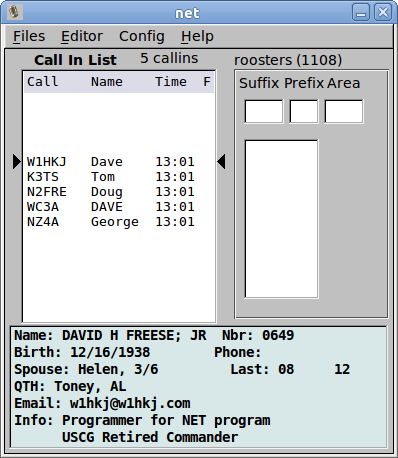
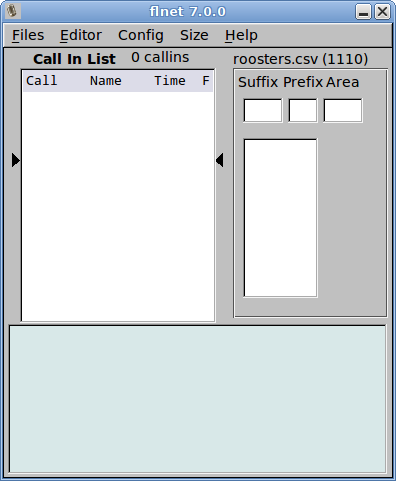
Help file update
* Changed help files to reflect change from xbase to
    comma separated file database

diff --git a/Net-help/MainDialog.html b/Net-help/MainDialog.html
@@ -3,6 +3,8 @@
 
 
 
+
+
 	
   <meta http-equiv="CONTENT-TYPE" content="text/html; charset=windows-1252"><title></title>
 
@@ -28,7 +30,7 @@
 		A:link { color: #000099 }
 		A:visited { color: #990099 }
 	-->
-	</style></head><body dir="ltr" bgcolor="#ffffcc" lang="en-US" link="#000099" text="#000000" vlink="#990099">
+	</style></head><body dir="ltr" lang="en-US">
 
 <h1 align="center">Main Dialog</h1>
 
@@ -37,56 +39,26 @@
 <h4>Windows:</h4>
 
 <p style="margin-left: 0.42in; margin-bottom: 0in;" align="justify">Invoke
-NET by either clicking on the program within the windows explorer, or
-bringing up a DOS window and changing to the directory containing the
-net5.exe program. &nbsp;If within a DOS window the operator may
-either enter "net5" or "net5 fname", where fname
-is the name of the filename which either contains or will contain the
-net callsign database. &nbsp;A new file will be created if it does
-not exist at the time the program is started. &nbsp;You will be given a
-choice of a two database types. &nbsp;The database sets differ in the
-number and types of fields that will be stored.</p>
-<p style="margin-left: 0.42in; margin-bottom: 0in;" align="justify">Normal: PREFIX, AREA, SUFFIX, NAME, NETNBR, LOGDATA, FNAME, LNAME ADDRESS, CITY, STATE, ZIP, PHONE, BIRTHDATE, SPOUSE, SP_BIRTH</p>
-<p style="margin-left: 0.42in; margin-bottom: 0in;" align="justify">Extended: adds the following fields:</p>
-<p style="margin-left: 0.42in; margin-bottom: 0in;" align="justify">&nbsp;&nbsp;NBRLOGINS,&nbsp;STATUS,&nbsp;JOINED,&nbsp;COMMENT1 ,&nbsp;COMMENT2,&nbsp;&nbsp;EMAIL,&nbsp;PREVDATE<br>
+flnet by clicking on the desktop program icon.&nbsp; The main dialog and a file selection dialog will open:</p>
+<p style="margin-left: 0.42in; margin-bottom: 0in;" align="justify"><br>
+</p>
+<table style="text-align: left; width: 100px;" border="0" cellpadding="2" cellspacing="2">
+  <tbody>
+    <tr>
+      <td style="vertical-align: top;"><img style="width: 396px; height: 481px;" alt="" src="flnet.png"></td>
+      <td style="vertical-align: top;"><img style="width: 496px; height: 406px;" alt="" src="Select_csvfile.png"><br>
+      </td>
+    </tr>
+  </tbody>
+</table>
 <br>
-&nbsp;If you start with the normal sized database and decide at a later
-date to move the to the extended you can use the executable file
-"orig2ext" to perform the conversion.</p>
-<p style="margin-left: 0.42in; margin-bottom: 0in;" align="justify">If started from
-the explorer window or by simply entering "net5" at the DOS
-prompt, the program will start with a "file open" dialog
-for you to choose the database file to open. &nbsp;You may also enter
-the name of a new file and it will then be created as above.<br>
+<p>Either select an existing file or enter a new filename with the csv extension.&nbsp; All
+database files have the extension "csv" which may
+optionally be added to the filename.<br>
 <br>
-All
-database files have the extension ".dbf" which may
-optionally be added to the filename. &nbsp;Either way, the program
-will always open or create a file with that extensiion. &nbsp;These
-are xbase files which are compatible with the old DOS dbase-IV file
-definition.</p>
-
-
-<h4>Linux:</h4>
-
-<p style="margin-left: 0.42in; margin-bottom: 0in;">Operations is
-identical to Windows, except the user will select the file to execute
-using either a terminal command line program or a gui browser
-associated with the windowing system being employed. &nbsp;Under
-Linux it is easy to place a shortcut on the desktop and associate
-that with the database to be opened. &nbsp;</p>
-
-<p><br>
-<br>
-
 </p>
 
-<h4>Main Window Layout:</h4>
-
-<p style="margin-bottom: 0in;" align="center"><img style="border: 0px solid ; width: 398px; height: 458px;" alt="" src="net.png" name="Graphic1"></p>
-
-<p align="justify"><br>
-The main window is divided into three sections.
+<h4>Main Window Layout:</h4>The main window is divided into three sections.
 &nbsp;The Call In List to the left contains all of the net members
 callsigns, nicknames and time of login, who have been entered for
 this session. &nbsp;The data in this window can be scrolled using the
@@ -97,7 +69,7 @@ control operator. &nbsp;It is significant for another reason. &nbsp;The
 function keys F1, F2, F3 and F4 when pressed with change the color of
 that entry to BLACK, BLUE, GREEN or RED respectively. &nbsp;The color
 coding can be used by the net control operator in any way that he or
-she chooses. &nbsp;One use might choose to designate</p>
+she chooses. &nbsp;One use might choose to designate
 
 <p align="justify">&nbsp;&nbsp;&nbsp;&nbsp;&nbsp;&nbsp;&nbsp;&nbsp;&nbsp;&nbsp;&nbsp;
 Logged in to the net&nbsp;&nbsp;&nbsp;&nbsp;&nbsp;&nbsp;&nbsp; BLACK</p>

diff --git a/Net-help/FileFormat.html b/Net-help/FileFormat.html
@@ -1,0 +1,69 @@
+<!DOCTYPE HTML PUBLIC "-//W3C//DTD HTML 4.0 Transitional//EN">
+<html dir="ltr"><head>
+
+
+  <meta http-equiv="Content-Type" content="text/html; charset=windows-1252">
+  <meta name="AUTHOR" content="Dave Freese"><title>Datafile Format</title>
+  
+  <style>
+	<!--
+		@page { size: 8.5in 11in }
+		TD P { color: #000000 }
+		P { color: #000000 }
+		H2 { color: #000000 }
+		H3 { color: #000000 }
+		A:link { color: #000099 }
+		A:visited { color: #990099 }
+	-->
+	</style></head><body>
+<h2 align="center">Datafile Format<br>
+</h2>flnet 7 data files are ASCII text files.&nbsp; The file format is
+comma separated value (csv) which is the text file format used by most
+modern spread sheet programs.<br>
+<br>
+The first line in the file is a header line consisting of the following comma separated strings:<br>
+<p style="margin-left: 40px;">PREFIX<br>
+AREA<br>
+SUFFIX<br>
+CALLSIGN<br>
+NAME<br>
+NETNBR<br>
+LOGDATE<br>
+NBRLOGINS<br>
+STATUS<br>
+JOINED<br>
+FNAME<br>
+LNAME<br>
+ADDR<br>
+CITY<br>
+STATE<br>
+ZIP<br>
+PHONE<br>
+BIRTHDATE<br>
+SPOUSE<br>
+SP_BIRTH<br>
+COMMENT1<br>
+COMMENT2<br>
+EMAIL<br>
+PREVDATE</p>
+Three fields must be present for flnet to consider the file to contain valid data: PREFIX, AREA and SUFFIX.<br>
+<br>
+The fields can be in any order and flnet will correctly parse the
+data.&nbsp; Record fields must of course be aligned with the respective
+header name.&nbsp; For example a file containing records consisting of<br>
+<br>
+<div style="margin-left: 40px;">ZIP, NAME, SUFFIX, PREFIX, AREA<br>
+</div>
+<br>
+will be properly parsed.&nbsp; When the data is saved by flnet the
+missing fields will be added (empty if not edited by the user), and the
+fields realigned in the default order.<br>
+<br>
+You can open an flnet csv file using Excel, Open Office, Gnumeric,
+etc.&nbsp; If you modify the file just be sure to save it again in the
+csv format.<br>
+<br>
+<div style="text-align: left;"> 
+ </div>
+<p style="margin-bottom: 0in;" align="center"><a href="index.html"><font size="4">Contents</font></a></p>
+</body></html>

diff --git a/Net-help/Import.html b/Net-help/Import.html
@@ -1,0 +1,37 @@
+<!DOCTYPE HTML PUBLIC "-//W3C//DTD HTML 4.0 Transitional//EN">
+<html dir="ltr"><head>
+
+
+
+  <meta http-equiv="Content-Type" content="text/html; charset=windows-1252">
+  <meta name="AUTHOR" content="Dave Freese"><title>Import Database</title>
+  
+  <style>
+	<!--
+		@page { size: 8.5in 11in }
+		TD P { color: #000000 }
+		P { color: #000000 }
+		H2 { color: #000000 }
+		H3 { color: #000000 }
+		A:link { color: #000099 }
+		A:visited { color: #990099 }
+	-->
+	</style></head><body>
+<h2 align="center">Importing data from pre flnet 7.x<br>
+</h2>The database file format used in earlier versions of flnet were
+based on Xbase, which is similar to dbase.&nbsp; These files must be
+converted to the csv flat file format before using the exported file in
+flnet 7.x.<br>
+<br>
+Execute the earlier version of flnet.&nbsp; Open the desired dbf file
+and then open the Editor dialog and press the "Export" menu button:<br>
+<br>
+<img style="width: 457px; height: 178px;" alt="" src="export.png"><br>
+<br>
+The file will be saved in the same location as the original dbf file,
+using the same filename but with the extension csv.&nbsp; flnet 7.x
+will be able to open and use this file.<br>
+<div style="text-align: left;"> 
+ </div>
+<p style="margin-bottom: 0in;" align="center"><a href="index.html"><font size="4">Contents</font></a></p>
+</body></html>

diff --git a/Net-help/Function_Keys.html b/Net-help/Function_Keys.html
@@ -1,9 +1,10 @@
 <!DOCTYPE HTML PUBLIC "-//W3C//DTD HTML 4.0 Transitional//EN">
-<html>
-<head>
+<html><head>
+
+
   <meta http-equiv="Content-Type" content="text/html; charset=windows-1252">
-  <meta name="AUTHOR" content="Dave Freese">
-  <title>Function Keys</title>
+  <meta name="AUTHOR" content="Dave Freese"><title>Function Keys</title>
+  
   <style>
 	<!--
 		@page { size: 8.5in 11in }
@@ -14,10 +15,7 @@
 		A:link { color: #000099 }
 		A:visited { color: #990099 }
 	-->
-	</style>
-</head>
-<body lang="en-US" text="#000000" link="#000099" vlink="#990099"
- bgcolor="#FFFFCC" dir="ltr">
+	</style></head><body dir="ltr" lang="en-US">
 <h2 align="center">Keyboard Assignment</h2>
 <h3 align="center">Main Dialog</h3>
 <p align="left">F1&nbsp;&nbsp;&nbsp;&nbsp;&nbsp;&nbsp;&nbsp; Set Color to BLACK
@@ -45,6 +43,5 @@ the call-in list</p>
 current call as database selection</p>
       <div style="text-align: left;"> 
  </div>
-<p align="center" style="margin-bottom: 0in;"><a href="index.html"><font size="4">Contents</font></a></p>
-</body>
-</html>
+<p style="margin-bottom: 0in;" align="center"><a href="index.html"><font size="4">Contents</font></a></p>
+</body></html>

diff --git a/Net-help/index.html b/Net-help/index.html
@@ -3,6 +3,9 @@
 
 
 
+
+
+
 	
   <meta http-equiv="CONTENT-TYPE" content="text/html; charset=windows-1252"><title>MainDialog</title>
 
@@ -29,9 +32,9 @@
 		A:link { color: #000099 }
 		A:visited { color: #990099 }
 	-->
-	</style></head><body dir="ltr" bgcolor="#ffffcc" lang="en-US" link="#000099" text="#000000" vlink="#990099">
+	</style></head><body dir="ltr" lang="en-US">
 
-<h1 align="center">Net 6.0<br>
+<h1 align="center">Net 7.0<br>
 </h1>
 
 <p align="left">Net provides the Amateur Radio Net Control Station
@@ -54,6 +57,11 @@ Dialog</a><br>
 <br>
  <a href="Function_Keys.html">Function Key
 Assignments</a></p>
+<p align="center"><a href="FileFormat.html">Datafile Format</a></p>
+<p align="center"><a href="Import.html">Import Xbase from pre 7.0 flnet<br>
+</a></p>
+
+
 
 <p style="margin-left: 0.97in; margin-bottom: 0in;"><br>
 
